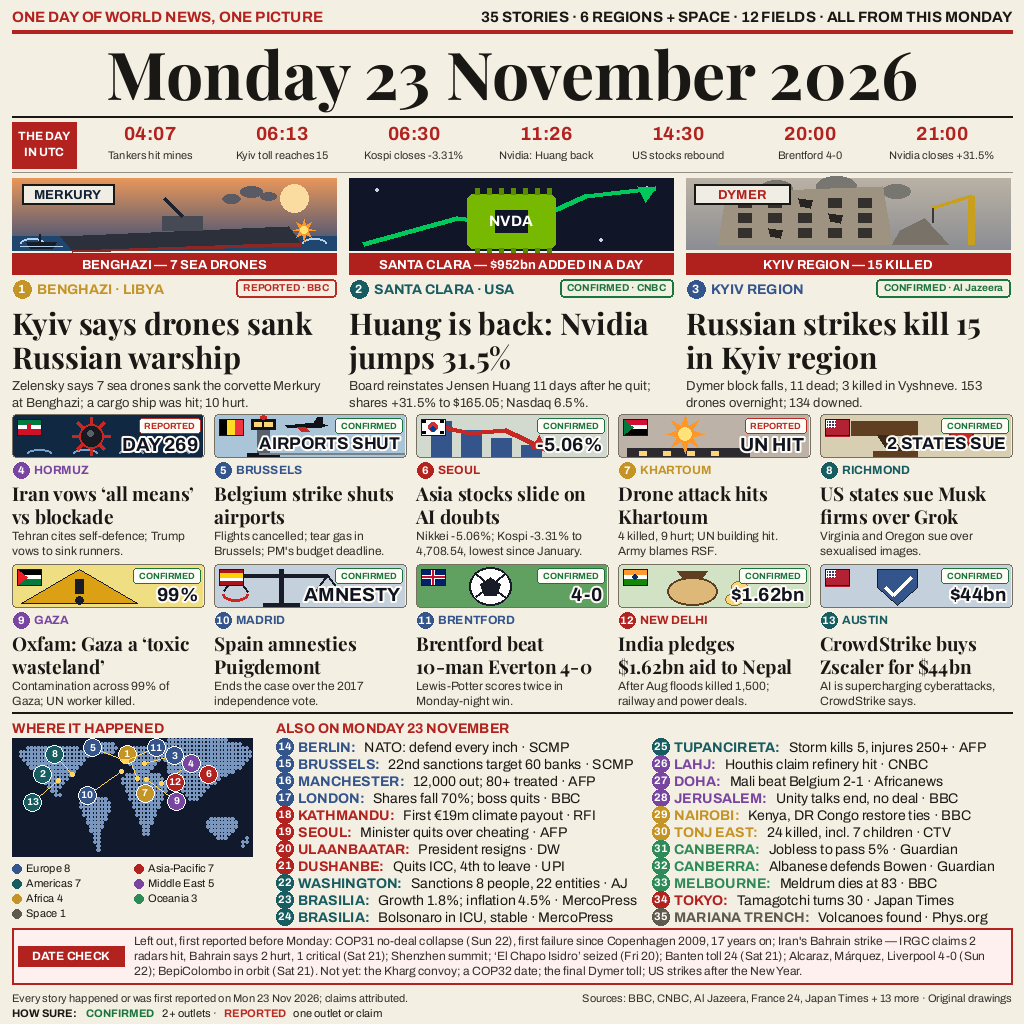
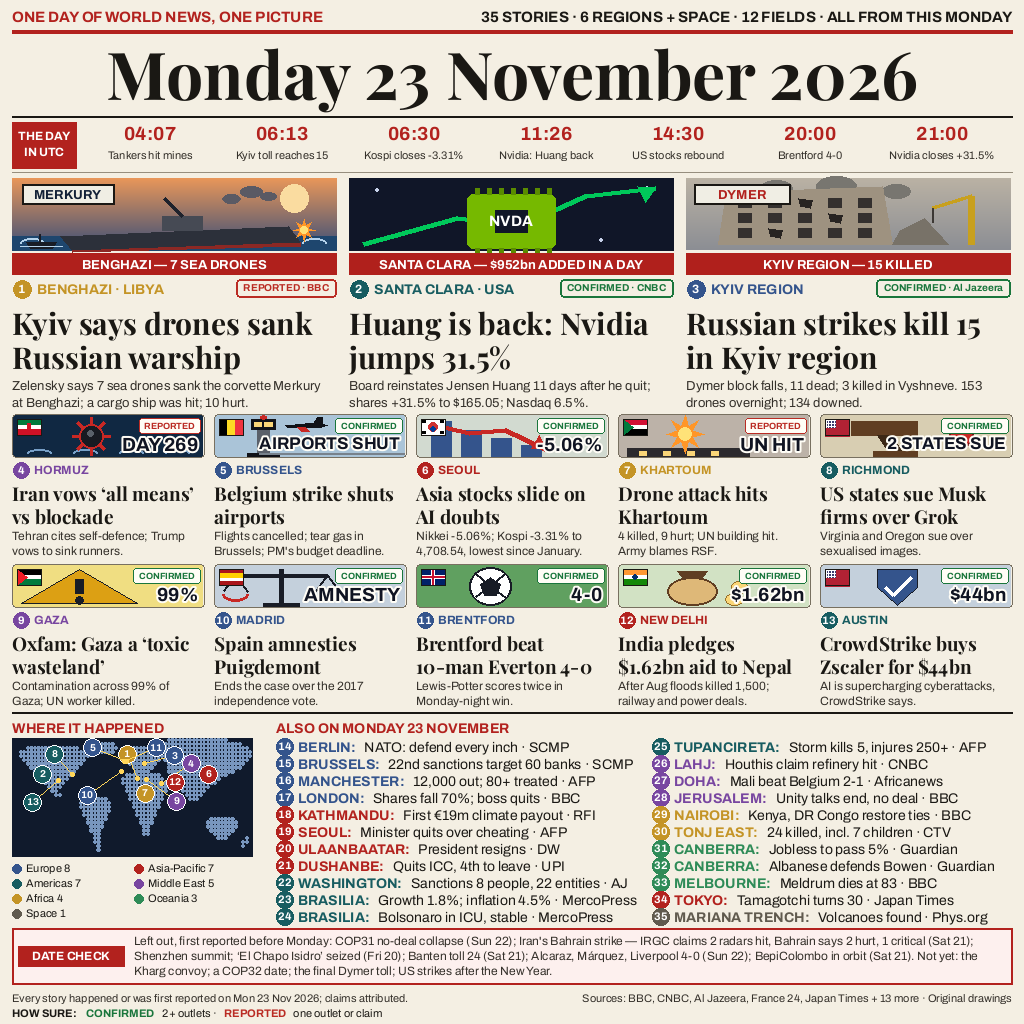
DATE CHECK: drop the COP31 historical superlative (Ahmad's revision)
Remove ', first failure since Copenhagen 2009, 17 years on' from the
COP31 exclusion line; reported wording only. The two now-unused
registry figures (cop31_last_nodeal, cop31_gap_years) are removed.
Pixel-diff vs the previous entry: changes confined to the DATE CHECK
box (x 134-984, y 936-978); nothing else moved.

Changed region(s): [[0.125, 0.9062, 0.9688, 0.9688]]

diff --git a/draw.py b/draw.py
@@ -1061,9 +1061,7 @@ def main():
     d.text((MX + 59 - tw / 2, dy + 21), "DATE CHECK", font=SANS_B(12),
            fill=(255, 255, 255))
     dc = ("Left out, first reported before Monday: COP31 no-deal "
-          "collapse (Sun 22), first failure since Copenhagen "
-          + FIG["cop31_last_nodeal"] + ", " + FIG["cop31_gap_years"]
-          + " years on; Iran's Bahrain strike \u2014 IRGC claims "
+          "collapse (Sun 22); Iran's Bahrain strike \u2014 IRGC claims "
           + FIG["bahrain_radars_claim"]
           + " radars hit, Bahrain says " + FIG["bahrain_injured"]
           + " hurt, " + FIG["bahrain_critical"]
